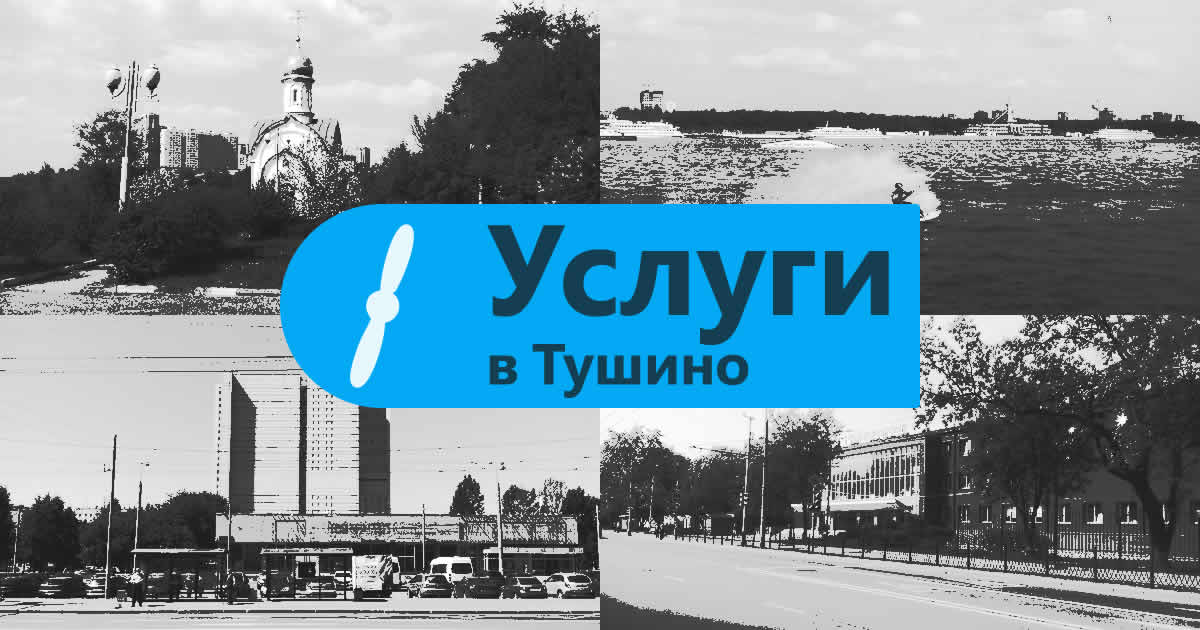
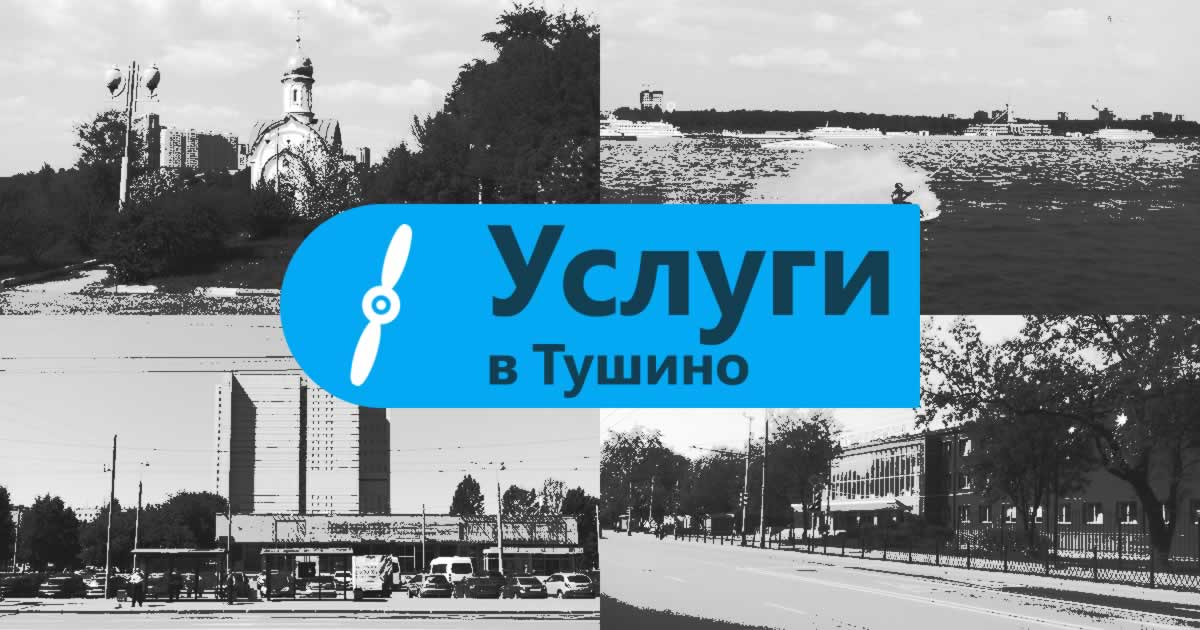
updates

diff --git a/index.html b/index.html
@@ -262,21 +262,21 @@
 				<symbol id="site-logo-icon" viewBox="0 0 136 64">
 					<title>site-logo</title>
 					<path fill="#03A9F4" d="M21,12C10,12,1,21,1,32s9,20,20,20s20-9,20-20S32,12,21,12z"></path>
-					<circle fill="#FFFFFF" cx="21" cy="32" r="1.039"></circle>
-					<path fill="#FFFFFF" d="M26.253,22.161c1.186-4.136,1.141-7.777-0.099-8.132c-1.241-0.356-3.208,2.708-4.394,6.844c-0.825,2.877-1.054,5.515-0.7,6.973c-1.83-0.027-3.525,1.165-4.054,3.009c-0.529,1.844,0.276,3.753,1.843,4.7c-1.074,1.049-2.277,3.407-3.102,6.285c-1.186,4.136-1.141,7.777,0.099,8.132c1.241,0.356,3.208-2.708,4.394-6.844c0.825-2.877,1.054-5.515,0.7-6.973c1.83,0.027,3.525-1.165,4.054-3.009c0.529-1.844-0.276-3.753-1.843-4.7C24.224,27.396,25.428,25.038,26.253,22.161z M22.997,32.573c-0.316,1.103-1.467,1.741-2.569,1.424c-1.103-0.316-1.741-1.467-1.424-2.569c0.316-1.103,1.467-1.741,2.569-1.424C22.675,30.319,23.313,31.47,22.997,32.573z"></path>
-					<path fill="currentColor" d="M53.69,29.831c-0.563,0-1.025-0.091-1.389-0.272v-1.96c0.188,0.117,0.402,0.215,0.646,0.294s0.474,0.119,0.69,0.119c0.457,0,0.853-0.149,1.187-0.448s0.694-0.858,1.081-1.679l-4.087-8.877h2.391l2.813,6.671h0.035l2.698-6.671h2.215l-4.017,9.035c-0.645,1.436-1.283,2.426-1.916,2.971S54.622,29.831,53.69,29.831z"></path>
-					<path fill="currentColor" d="M68.359,29.233c-0.691,0.398-1.544,0.598-2.558,0.598c-0.867,0-1.64-0.188-2.315-0.563c-0.678-0.375-1.205-0.908-1.582-1.6c-0.379-0.691-0.567-1.465-0.567-2.32c0-0.979,0.194-1.843,0.585-2.593c0.389-0.75,0.954-1.332,1.695-1.745s1.602-0.62,2.58-0.62c0.381,0,0.776,0.042,1.187,0.127s0.735,0.195,0.976,0.33v1.925c-0.662-0.48-1.354-0.721-2.074-0.721c-0.844,0-1.528,0.283-2.053,0.848s-0.786,1.32-0.786,2.263c0,0.938,0.252,1.673,0.756,2.206s1.187,0.8,2.048,0.8c0.311,0,0.659-0.067,1.046-0.202s0.741-0.319,1.063-0.554V29.233z"></path>
-					<path fill="currentColor" d="M75.786,29.611v-7.365h-2.057c-0.193,1.957-0.438,3.457-0.734,4.5s-0.683,1.799-1.16,2.268s-1.105,0.703-1.885,0.703c-0.422,0-0.727-0.035-0.914-0.105v-1.477c0.141,0.047,0.313,0.07,0.519,0.07c0.445,0,0.818-0.249,1.12-0.747s0.562-1.277,0.778-2.338s0.419-2.563,0.606-4.509h5.757v9H75.786z"></path>
-					<path fill="currentColor" d="M80.831,33.839c-0.504,0-0.92-0.047-1.248-0.141v-1.732c0.322,0.146,0.653,0.22,0.993,0.22c0.721,0,1.248-0.384,1.582-1.151l0.615-1.424l-3.604-9h2.285l2.312,6.952h0.035l2.391-6.952h2.065l-3.902,10.081c-0.41,1.09-0.908,1.887-1.494,2.391C82.275,33.587,81.599,33.839,80.831,33.839z"></path>
+					<circle fill="#FFFFFF" cx="21" cy="32" r="0.956"></circle>
+					<path fill="#FFFFFF" d="M24.632,33.181c0.545-1.68-0.134-3.463-1.545-4.384c1.024-0.938,2.214-3.091,3.073-5.738	c0.637-1.963,0.967-3.813,0.982-5.193c0.014-1.291-0.434-1.598-0.979-1.776c-0.545-0.177-1.088-0.192-1.835,0.86	c-0.798,1.126-1.617,2.817-2.254,4.779c-0.859,2.647-1.16,5.089-0.882,6.45c-1.682-0.086-3.279,0.957-3.824,2.637	c-0.545,1.68,0.134,3.463,1.545,4.384c-1.024,0.938-2.214,3.091-3.073,5.738c-0.637,1.963-0.967,3.813-0.982,5.193	c-0.014,1.291,0.434,1.598,0.979,1.776c0.545,0.177,1.088,0.192,1.835-0.86c0.798-1.126,1.617-2.817,2.254-4.779	c0.859-2.647,1.16-5.089,0.882-6.45C22.49,35.904,24.087,34.861,24.632,33.181z M20.41,33.818	c-1.003-0.326-1.552-1.405-1.226-2.409c0.326-1.004,1.403-1.554,2.406-1.227c1.003,0.326,1.552,1.405,1.226,2.409	C22.49,33.595,21.413,34.144,20.41,33.818z"></path>
+					<path fill="currentColor" d="M53.69,29.831c-0.563,0-1.025-0.091-1.389-0.272v-1.96c0.188,0.117,0.402,0.215,0.646,0.294	s0.474,0.119,0.69,0.119c0.457,0,0.853-0.149,1.187-0.448s0.694-0.858,1.081-1.679l-4.087-8.877h2.391l2.813,6.671h0.035	l2.698-6.671h2.215l-4.017,9.035c-0.645,1.436-1.283,2.426-1.916,2.971S54.622,29.831,53.69,29.831z"></path>
+					<path fill="currentColor" d="M68.359,29.233c-0.691,0.398-1.544,0.598-2.558,0.598c-0.867,0-1.64-0.188-2.315-0.563	c-0.678-0.375-1.205-0.908-1.582-1.6c-0.379-0.691-0.567-1.465-0.567-2.32c0-0.979,0.194-1.843,0.585-2.593	c0.389-0.75,0.954-1.332,1.695-1.745s1.602-0.62,2.58-0.62c0.381,0,0.776,0.042,1.187,0.127s0.735,0.195,0.976,0.33v1.925	c-0.662-0.48-1.354-0.721-2.074-0.721c-0.844,0-1.528,0.283-2.053,0.848s-0.786,1.32-0.786,2.263c0,0.938,0.252,1.673,0.756,2.206	s1.187,0.8,2.048,0.8c0.311,0,0.659-0.067,1.046-0.202s0.741-0.319,1.063-0.554V29.233z"></path>
+					<path fill="currentColor" d="M75.786,29.611v-7.365h-2.057c-0.193,1.957-0.438,3.457-0.734,4.5s-0.683,1.799-1.16,2.268	s-1.105,0.703-1.885,0.703c-0.422,0-0.727-0.035-0.914-0.105v-1.477c0.141,0.047,0.313,0.07,0.519,0.07	c0.445,0,0.818-0.249,1.12-0.747s0.562-1.277,0.778-2.338s0.419-2.563,0.606-4.509h5.757v9H75.786z"></path>
+					<path fill="currentColor" d="M80.831,33.839c-0.504,0-0.92-0.047-1.248-0.141v-1.732c0.322,0.146,0.653,0.22,0.993,0.22	c0.721,0,1.248-0.384,1.582-1.151l0.615-1.424l-3.604-9h2.285l2.312,6.952h0.035l2.391-6.952h2.065l-3.902,10.081	c-0.41,1.09-0.908,1.887-1.494,2.391C82.275,33.587,81.599,33.839,80.831,33.839z"></path>
 					<path fill="currentColor" d="M91.65,22.246v7.365h-2.03v-9h5.256v1.635H91.65z"></path>
 					<path fill="currentColor" d="M102.883,29.611V23.3l-4.658,6.311h-1.731v-9h1.925v6.135l4.518-6.135h1.854v9H102.883z"></path>
-					<path fill="currentColor" d="M60.607,41.948c0,0.826-0.267,1.477-0.8,1.951s-1.269,0.712-2.206,0.712h-4.702v-9h4.43c0.967,0,1.7,0.183,2.202,0.549c0.5,0.366,0.751,0.91,0.751,1.631c0,0.527-0.166,0.977-0.497,1.349s-0.754,0.611-1.27,0.717c0.645,0.076,1.154,0.303,1.529,0.681S60.607,41.386,60.607,41.948z M58.173,38.081c0-0.352-0.111-0.612-0.334-0.782s-0.609-0.255-1.16-0.255H54.93v2.259h1.644c0.51,0,0.903-0.102,1.183-0.304C58.033,38.797,58.173,38.491,58.173,38.081z M58.48,41.948c0-0.832-0.577-1.248-1.731-1.248H54.93v2.443h1.951c0.533,0,0.933-0.094,1.199-0.281S58.48,42.37,58.48,41.948z"></path>
+					<path fill="currentColor" d="M60.607,41.948c0,0.826-0.267,1.477-0.8,1.951s-1.269,0.712-2.206,0.712h-4.702v-9h4.43	c0.967,0,1.7,0.183,2.202,0.549c0.5,0.366,0.751,0.91,0.751,1.631c0,0.527-0.166,0.977-0.497,1.349s-0.754,0.611-1.27,0.717	c0.645,0.076,1.154,0.303,1.529,0.681S60.607,41.386,60.607,41.948z M58.173,38.081c0-0.352-0.111-0.612-0.334-0.782	s-0.609-0.255-1.16-0.255H54.93v2.259h1.644c0.51,0,0.903-0.102,1.183-0.304C58.033,38.797,58.173,38.491,58.173,38.081z M58.48,41.948c0-0.832-0.577-1.248-1.731-1.248H54.93v2.443h1.951c0.533,0,0.933-0.094,1.199-0.281S58.48,42.37,58.48,41.948z"></path>
 					<path fill="currentColor" d="M71.611,33.81v10.802h-2.109V33.81H65.89v-1.802h9.343v1.802H71.611z"></path>
-					<path fill="currentColor" d="M75.751,48.839c-0.504,0-0.92-0.047-1.248-0.141v-1.731c0.322,0.146,0.653,0.22,0.993,0.22c0.721,0,1.248-0.384,1.582-1.151l0.615-1.424l-3.604-9h2.285l2.312,6.952h0.035l2.391-6.952h2.065l-3.902,10.081c-0.41,1.09-0.908,1.887-1.494,2.391S76.519,48.839,75.751,48.839z"></path>
+					<path fill="currentColor" d="M75.751,48.839c-0.504,0-0.92-0.047-1.248-0.141v-1.731c0.322,0.146,0.653,0.22,0.993,0.22	c0.721,0,1.248-0.384,1.582-1.151l0.615-1.424l-3.604-9h2.285l2.312,6.952h0.035l2.391-6.952h2.065l-3.902,10.081	c-0.41,1.09-0.908,1.887-1.494,2.391S76.519,48.839,75.751,48.839z"></path>
 					<path fill="currentColor" d="M84.54,44.611v-9h2.03v7.365h3.067v-7.365h2.03v7.365h3.067v-7.365h2.03v9H84.54z"></path>
 					<path fill="currentColor" d="M105.845,44.611v-6.311l-4.658,6.311h-1.731v-9h1.925v6.135l4.518-6.135h1.854v9H105.845z"></path>
 					<path fill="currentColor" d="M116.462,44.611v-3.876h-3.99v3.876h-2.03v-9h2.03v3.489h3.99v-3.489h2.03v9H116.462z"></path>
-					<path fill="currentColor" d="M129.769,40.023c0,1.459-0.422,2.625-1.266,3.498s-1.989,1.31-3.437,1.31c-1.389,0-2.495-0.415-3.317-1.244c-0.824-0.829-1.235-1.952-1.235-3.37c0-1.494,0.422-2.672,1.266-3.533s2.013-1.292,3.507-1.292c1.406,0,2.505,0.411,3.296,1.234S129.769,38.582,129.769,40.023z M127.659,40.094c0-0.996-0.222-1.752-0.664-2.268s-1.05-0.773-1.823-0.773c-0.797,0-1.421,0.27-1.872,0.809s-0.677,1.301-0.677,2.285c0,0.955,0.226,1.697,0.677,2.228s1.081,0.796,1.89,0.796c0.814,0,1.43-0.261,1.846-0.782S127.659,41.102,127.659,40.094z"></path>
+					<path fill="currentColor" d="M129.769,40.023c0,1.459-0.422,2.625-1.266,3.498s-1.989,1.31-3.437,1.31	c-1.389,0-2.495-0.415-3.317-1.244c-0.824-0.829-1.235-1.952-1.235-3.37c0-1.494,0.422-2.672,1.266-3.533s2.013-1.292,3.507-1.292	c1.406,0,2.505,0.411,3.296,1.234S129.769,38.582,129.769,40.023z M127.659,40.094c0-0.996-0.222-1.752-0.664-2.268	s-1.05-0.773-1.823-0.773c-0.797,0-1.421,0.27-1.872,0.809s-0.677,1.301-0.677,2.285c0,0.955,0.226,1.697,0.677,2.228	s1.081,0.796,1.89,0.796c0.814,0,1.43-0.261,1.846-0.782S127.659,41.102,127.659,40.094z"></path>
 				</symbol>
 				<symbol id="light-bulb-10" viewBox="0 0 24 24">
 					<title>light-bulb-10</title>

diff --git a/404.html b/404.html
@@ -93,21 +93,21 @@
 				<symbol id="site-logo-icon" viewBox="0 0 136 64">
 					<title>site-logo</title>
 					<path fill="#03A9F4" d="M21,12C10,12,1,21,1,32s9,20,20,20s20-9,20-20S32,12,21,12z"></path>
-					<circle fill="#FFFFFF" cx="21" cy="32" r="1.039"></circle>
-					<path fill="#FFFFFF" d="M26.253,22.161c1.186-4.136,1.141-7.777-0.099-8.132c-1.241-0.356-3.208,2.708-4.394,6.844c-0.825,2.877-1.054,5.515-0.7,6.973c-1.83-0.027-3.525,1.165-4.054,3.009c-0.529,1.844,0.276,3.753,1.843,4.7c-1.074,1.049-2.277,3.407-3.102,6.285c-1.186,4.136-1.141,7.777,0.099,8.132c1.241,0.356,3.208-2.708,4.394-6.844c0.825-2.877,1.054-5.515,0.7-6.973c1.83,0.027,3.525-1.165,4.054-3.009c0.529-1.844-0.276-3.753-1.843-4.7C24.224,27.396,25.428,25.038,26.253,22.161z M22.997,32.573c-0.316,1.103-1.467,1.741-2.569,1.424c-1.103-0.316-1.741-1.467-1.424-2.569c0.316-1.103,1.467-1.741,2.569-1.424C22.675,30.319,23.313,31.47,22.997,32.573z"></path>
-					<path fill="currentColor" d="M53.69,29.831c-0.563,0-1.025-0.091-1.389-0.272v-1.96c0.188,0.117,0.402,0.215,0.646,0.294s0.474,0.119,0.69,0.119c0.457,0,0.853-0.149,1.187-0.448s0.694-0.858,1.081-1.679l-4.087-8.877h2.391l2.813,6.671h0.035l2.698-6.671h2.215l-4.017,9.035c-0.645,1.436-1.283,2.426-1.916,2.971S54.622,29.831,53.69,29.831z"></path>
-					<path fill="currentColor" d="M68.359,29.233c-0.691,0.398-1.544,0.598-2.558,0.598c-0.867,0-1.64-0.188-2.315-0.563c-0.678-0.375-1.205-0.908-1.582-1.6c-0.379-0.691-0.567-1.465-0.567-2.32c0-0.979,0.194-1.843,0.585-2.593c0.389-0.75,0.954-1.332,1.695-1.745s1.602-0.62,2.58-0.62c0.381,0,0.776,0.042,1.187,0.127s0.735,0.195,0.976,0.33v1.925c-0.662-0.48-1.354-0.721-2.074-0.721c-0.844,0-1.528,0.283-2.053,0.848s-0.786,1.32-0.786,2.263c0,0.938,0.252,1.673,0.756,2.206s1.187,0.8,2.048,0.8c0.311,0,0.659-0.067,1.046-0.202s0.741-0.319,1.063-0.554V29.233z"></path>
-					<path fill="currentColor" d="M75.786,29.611v-7.365h-2.057c-0.193,1.957-0.438,3.457-0.734,4.5s-0.683,1.799-1.16,2.268s-1.105,0.703-1.885,0.703c-0.422,0-0.727-0.035-0.914-0.105v-1.477c0.141,0.047,0.313,0.07,0.519,0.07c0.445,0,0.818-0.249,1.12-0.747s0.562-1.277,0.778-2.338s0.419-2.563,0.606-4.509h5.757v9H75.786z"></path>
-					<path fill="currentColor" d="M80.831,33.839c-0.504,0-0.92-0.047-1.248-0.141v-1.732c0.322,0.146,0.653,0.22,0.993,0.22c0.721,0,1.248-0.384,1.582-1.151l0.615-1.424l-3.604-9h2.285l2.312,6.952h0.035l2.391-6.952h2.065l-3.902,10.081c-0.41,1.09-0.908,1.887-1.494,2.391C82.275,33.587,81.599,33.839,80.831,33.839z"></path>
+					<circle fill="#FFFFFF" cx="21" cy="32" r="0.956"></circle>
+					<path fill="#FFFFFF" d="M24.632,33.181c0.545-1.68-0.134-3.463-1.545-4.384c1.024-0.938,2.214-3.091,3.073-5.738	c0.637-1.963,0.967-3.813,0.982-5.193c0.014-1.291-0.434-1.598-0.979-1.776c-0.545-0.177-1.088-0.192-1.835,0.86	c-0.798,1.126-1.617,2.817-2.254,4.779c-0.859,2.647-1.16,5.089-0.882,6.45c-1.682-0.086-3.279,0.957-3.824,2.637	c-0.545,1.68,0.134,3.463,1.545,4.384c-1.024,0.938-2.214,3.091-3.073,5.738c-0.637,1.963-0.967,3.813-0.982,5.193	c-0.014,1.291,0.434,1.598,0.979,1.776c0.545,0.177,1.088,0.192,1.835-0.86c0.798-1.126,1.617-2.817,2.254-4.779	c0.859-2.647,1.16-5.089,0.882-6.45C22.49,35.904,24.087,34.861,24.632,33.181z M20.41,33.818	c-1.003-0.326-1.552-1.405-1.226-2.409c0.326-1.004,1.403-1.554,2.406-1.227c1.003,0.326,1.552,1.405,1.226,2.409	C22.49,33.595,21.413,34.144,20.41,33.818z"></path>
+					<path fill="currentColor" d="M53.69,29.831c-0.563,0-1.025-0.091-1.389-0.272v-1.96c0.188,0.117,0.402,0.215,0.646,0.294	s0.474,0.119,0.69,0.119c0.457,0,0.853-0.149,1.187-0.448s0.694-0.858,1.081-1.679l-4.087-8.877h2.391l2.813,6.671h0.035	l2.698-6.671h2.215l-4.017,9.035c-0.645,1.436-1.283,2.426-1.916,2.971S54.622,29.831,53.69,29.831z"></path>
+					<path fill="currentColor" d="M68.359,29.233c-0.691,0.398-1.544,0.598-2.558,0.598c-0.867,0-1.64-0.188-2.315-0.563	c-0.678-0.375-1.205-0.908-1.582-1.6c-0.379-0.691-0.567-1.465-0.567-2.32c0-0.979,0.194-1.843,0.585-2.593	c0.389-0.75,0.954-1.332,1.695-1.745s1.602-0.62,2.58-0.62c0.381,0,0.776,0.042,1.187,0.127s0.735,0.195,0.976,0.33v1.925	c-0.662-0.48-1.354-0.721-2.074-0.721c-0.844,0-1.528,0.283-2.053,0.848s-0.786,1.32-0.786,2.263c0,0.938,0.252,1.673,0.756,2.206	s1.187,0.8,2.048,0.8c0.311,0,0.659-0.067,1.046-0.202s0.741-0.319,1.063-0.554V29.233z"></path>
+					<path fill="currentColor" d="M75.786,29.611v-7.365h-2.057c-0.193,1.957-0.438,3.457-0.734,4.5s-0.683,1.799-1.16,2.268	s-1.105,0.703-1.885,0.703c-0.422,0-0.727-0.035-0.914-0.105v-1.477c0.141,0.047,0.313,0.07,0.519,0.07	c0.445,0,0.818-0.249,1.12-0.747s0.562-1.277,0.778-2.338s0.419-2.563,0.606-4.509h5.757v9H75.786z"></path>
+					<path fill="currentColor" d="M80.831,33.839c-0.504,0-0.92-0.047-1.248-0.141v-1.732c0.322,0.146,0.653,0.22,0.993,0.22	c0.721,0,1.248-0.384,1.582-1.151l0.615-1.424l-3.604-9h2.285l2.312,6.952h0.035l2.391-6.952h2.065l-3.902,10.081	c-0.41,1.09-0.908,1.887-1.494,2.391C82.275,33.587,81.599,33.839,80.831,33.839z"></path>
 					<path fill="currentColor" d="M91.65,22.246v7.365h-2.03v-9h5.256v1.635H91.65z"></path>
 					<path fill="currentColor" d="M102.883,29.611V23.3l-4.658,6.311h-1.731v-9h1.925v6.135l4.518-6.135h1.854v9H102.883z"></path>
-					<path fill="currentColor" d="M60.607,41.948c0,0.826-0.267,1.477-0.8,1.951s-1.269,0.712-2.206,0.712h-4.702v-9h4.43c0.967,0,1.7,0.183,2.202,0.549c0.5,0.366,0.751,0.91,0.751,1.631c0,0.527-0.166,0.977-0.497,1.349s-0.754,0.611-1.27,0.717c0.645,0.076,1.154,0.303,1.529,0.681S60.607,41.386,60.607,41.948z M58.173,38.081c0-0.352-0.111-0.612-0.334-0.782s-0.609-0.255-1.16-0.255H54.93v2.259h1.644c0.51,0,0.903-0.102,1.183-0.304C58.033,38.797,58.173,38.491,58.173,38.081z M58.48,41.948c0-0.832-0.577-1.248-1.731-1.248H54.93v2.443h1.951c0.533,0,0.933-0.094,1.199-0.281S58.48,42.37,58.48,41.948z"></path>
+					<path fill="currentColor" d="M60.607,41.948c0,0.826-0.267,1.477-0.8,1.951s-1.269,0.712-2.206,0.712h-4.702v-9h4.43	c0.967,0,1.7,0.183,2.202,0.549c0.5,0.366,0.751,0.91,0.751,1.631c0,0.527-0.166,0.977-0.497,1.349s-0.754,0.611-1.27,0.717	c0.645,0.076,1.154,0.303,1.529,0.681S60.607,41.386,60.607,41.948z M58.173,38.081c0-0.352-0.111-0.612-0.334-0.782	s-0.609-0.255-1.16-0.255H54.93v2.259h1.644c0.51,0,0.903-0.102,1.183-0.304C58.033,38.797,58.173,38.491,58.173,38.081z M58.48,41.948c0-0.832-0.577-1.248-1.731-1.248H54.93v2.443h1.951c0.533,0,0.933-0.094,1.199-0.281S58.48,42.37,58.48,41.948z"></path>
 					<path fill="currentColor" d="M71.611,33.81v10.802h-2.109V33.81H65.89v-1.802h9.343v1.802H71.611z"></path>
-					<path fill="currentColor" d="M75.751,48.839c-0.504,0-0.92-0.047-1.248-0.141v-1.731c0.322,0.146,0.653,0.22,0.993,0.22c0.721,0,1.248-0.384,1.582-1.151l0.615-1.424l-3.604-9h2.285l2.312,6.952h0.035l2.391-6.952h2.065l-3.902,10.081c-0.41,1.09-0.908,1.887-1.494,2.391S76.519,48.839,75.751,48.839z"></path>
+					<path fill="currentColor" d="M75.751,48.839c-0.504,0-0.92-0.047-1.248-0.141v-1.731c0.322,0.146,0.653,0.22,0.993,0.22	c0.721,0,1.248-0.384,1.582-1.151l0.615-1.424l-3.604-9h2.285l2.312,6.952h0.035l2.391-6.952h2.065l-3.902,10.081	c-0.41,1.09-0.908,1.887-1.494,2.391S76.519,48.839,75.751,48.839z"></path>
 					<path fill="currentColor" d="M84.54,44.611v-9h2.03v7.365h3.067v-7.365h2.03v7.365h3.067v-7.365h2.03v9H84.54z"></path>
 					<path fill="currentColor" d="M105.845,44.611v-6.311l-4.658,6.311h-1.731v-9h1.925v6.135l4.518-6.135h1.854v9H105.845z"></path>
 					<path fill="currentColor" d="M116.462,44.611v-3.876h-3.99v3.876h-2.03v-9h2.03v3.489h3.99v-3.489h2.03v9H116.462z"></path>
-					<path fill="currentColor" d="M129.769,40.023c0,1.459-0.422,2.625-1.266,3.498s-1.989,1.31-3.437,1.31c-1.389,0-2.495-0.415-3.317-1.244c-0.824-0.829-1.235-1.952-1.235-3.37c0-1.494,0.422-2.672,1.266-3.533s2.013-1.292,3.507-1.292c1.406,0,2.505,0.411,3.296,1.234S129.769,38.582,129.769,40.023z M127.659,40.094c0-0.996-0.222-1.752-0.664-2.268s-1.05-0.773-1.823-0.773c-0.797,0-1.421,0.27-1.872,0.809s-0.677,1.301-0.677,2.285c0,0.955,0.226,1.697,0.677,2.228s1.081,0.796,1.89,0.796c0.814,0,1.43-0.261,1.846-0.782S127.659,41.102,127.659,40.094z"></path>
+					<path fill="currentColor" d="M129.769,40.023c0,1.459-0.422,2.625-1.266,3.498s-1.989,1.31-3.437,1.31	c-1.389,0-2.495-0.415-3.317-1.244c-0.824-0.829-1.235-1.952-1.235-3.37c0-1.494,0.422-2.672,1.266-3.533s2.013-1.292,3.507-1.292	c1.406,0,2.505,0.411,3.296,1.234S129.769,38.582,129.769,40.023z M127.659,40.094c0-0.996-0.222-1.752-0.664-2.268	s-1.05-0.773-1.823-0.773c-0.797,0-1.421,0.27-1.872,0.809s-0.677,1.301-0.677,2.285c0,0.955,0.226,1.697,0.677,2.228	s1.081,0.796,1.89,0.796c0.814,0,1.43-0.261,1.846-0.782S127.659,41.102,127.659,40.094z"></path>
 				</symbol>
 				<symbol id="light-bulb-10" viewBox="0 0 24 24">
 					<title>light-bulb-10</title>
